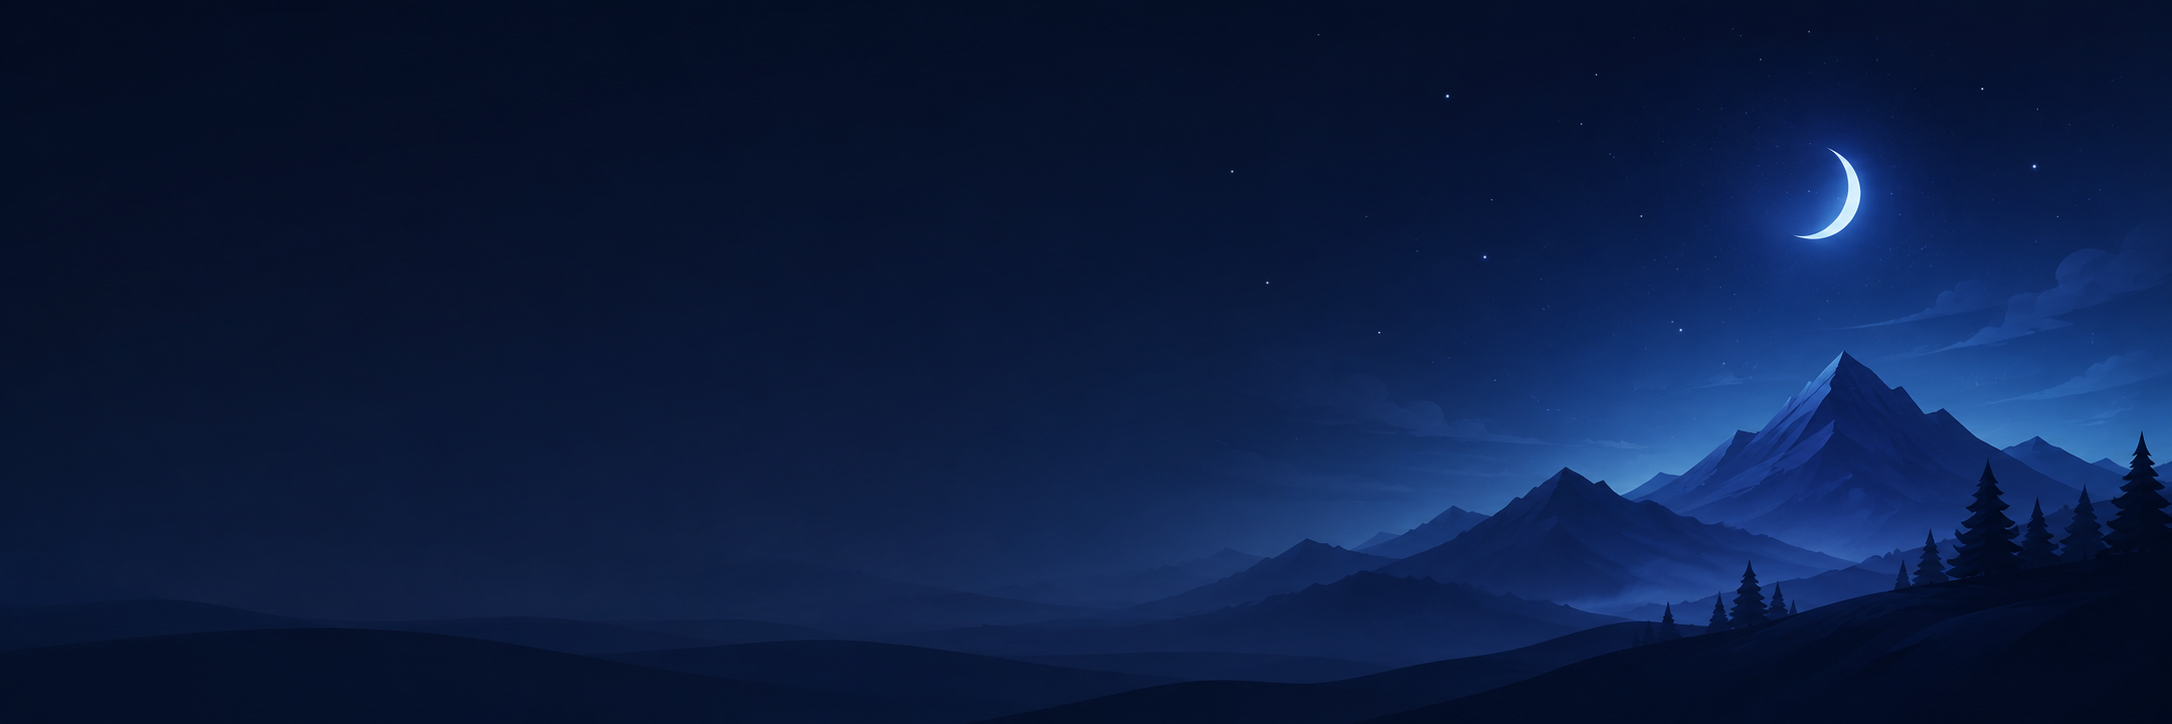
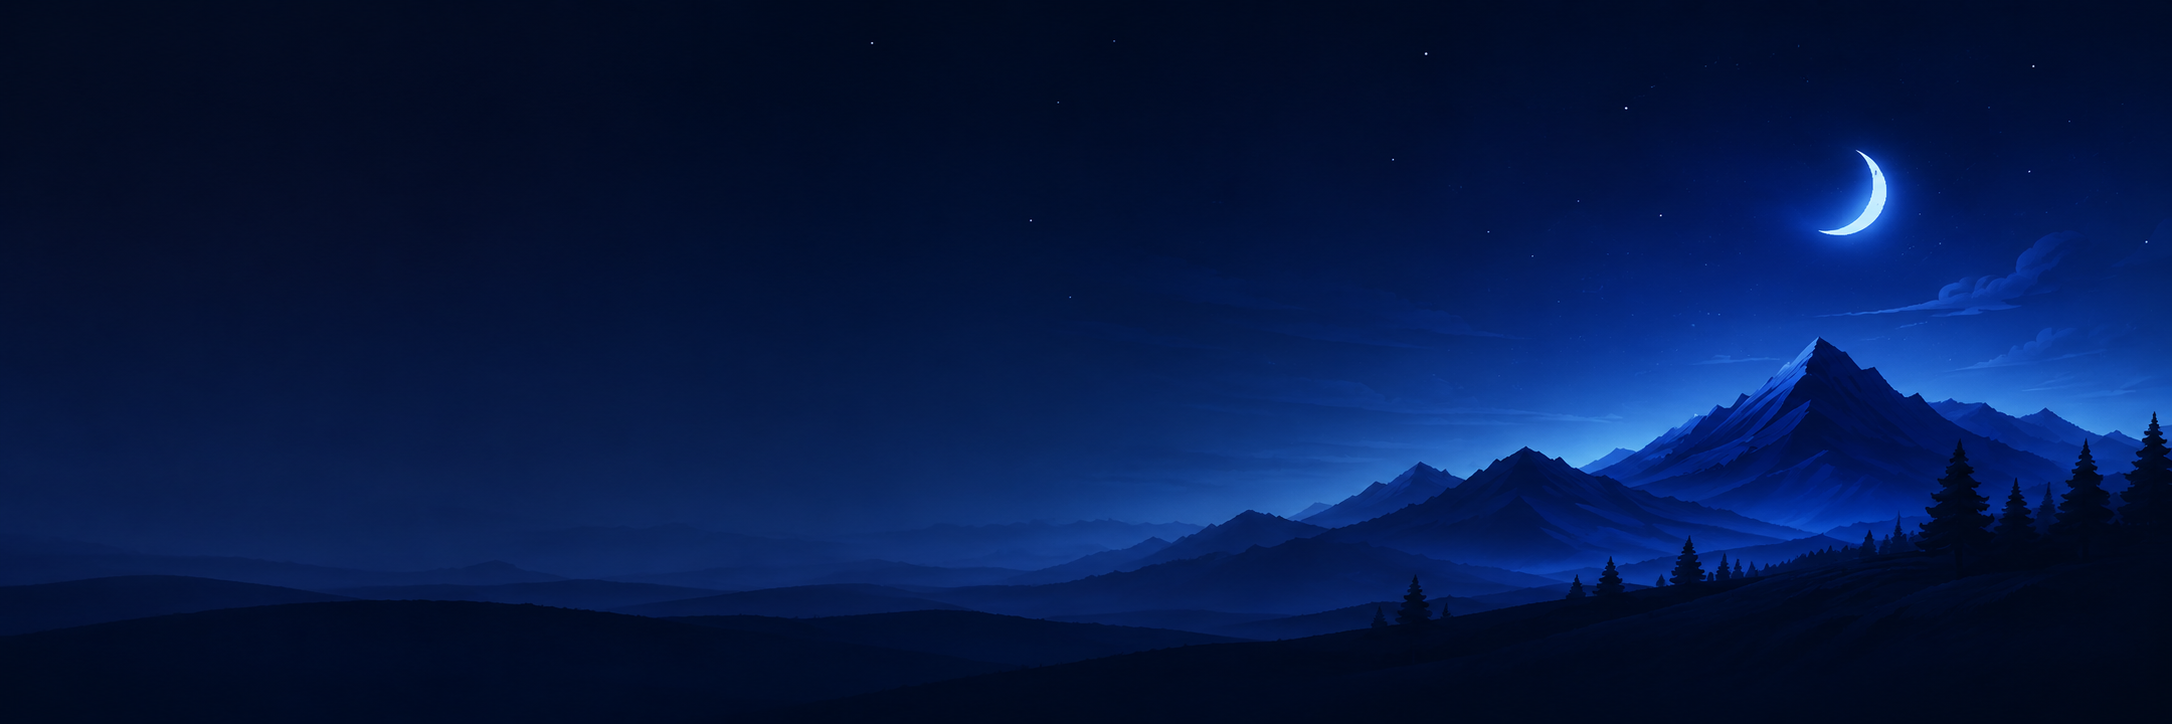
Alteracoes visuais Dashboard

Changed region(s): [[0.0, 0.3343, 1.0, 0.9724], [0.802, 0.1823, 0.8946, 0.3646]]

diff --git a/ui/dashboard/dashboard_page.py b/ui/dashboard/dashboard_page.py
@@ -59,38 +59,23 @@ class DashboardPage(QWidget):
         main_layout.addWidget(scroll_area)
 
     def create_welcome_card(self):
-        self.welcome_card = QFrame()
-        self.welcome_card.setObjectName("dashboardWelcomeCard")
-        self.welcome_card.setMinimumHeight(150)
+        welcome_card = QFrame()
+        welcome_card.setObjectName("dashboardWelcomeCard")
 
-        image_path = DASHBOARD_IMAGES_DIR / "header_bg_dark.png"
-
-        if image_path.exists():
-            self.welcome_card.setStyleSheet(f"""
-                QFrame#dashboardWelcomeCard {{
-                    border-image: url("{image_path.as_posix()}") 0 0 0 0 stretch stretch;
-                    border-radius: 18px;
-                    border: 1px solid rgba(148, 163, 184, 0.18);
-                }}
-            """)
-
-        layout = QVBoxLayout(self.welcome_card)
-        layout.setContentsMargins(26, 24, 26, 24)
-        layout.setSpacing(8)
+        layout = QVBoxLayout(welcome_card)
+        layout.setContentsMargins(26, 22, 26, 22)
+        layout.setSpacing(6)
 
         self.welcome_title = QLabel("Olá!")
         self.welcome_title.setObjectName("dashboardWelcomeTitle")
 
         self.welcome_subtitle = QLabel("")
         self.welcome_subtitle.setObjectName("dashboardWelcomeSubtitle")
-        self.welcome_subtitle.setWordWrap(True)
 
-        layout.addStretch()
         layout.addWidget(self.welcome_title)
         layout.addWidget(self.welcome_subtitle)
-        layout.addStretch()
 
-        self.layout.addWidget(self.welcome_card)
+        self.layout.addWidget(welcome_card)
 
     def create_info_cards(self):
         cards_grid = QGridLayout()

diff --git a/styles/theme.py b/styles/theme.py
@@ -2448,15 +2448,6 @@ def get_theme():
         background-color: rgba(148, 163, 184, 0.20);
     }
 
-    QLabel#dashboardHeaderImage {
-    background-color: transparent;
-    border-radius: 14px;
-    }
-
-    QLabel#dashboardGoalImage {
-        background-color: transparent;
-    }
-
     QFrame#dashboardGoalSection {
         background-color: rgba(15, 23, 42, 0.86);
         border: 1px solid rgba(148, 163, 184, 0.12);